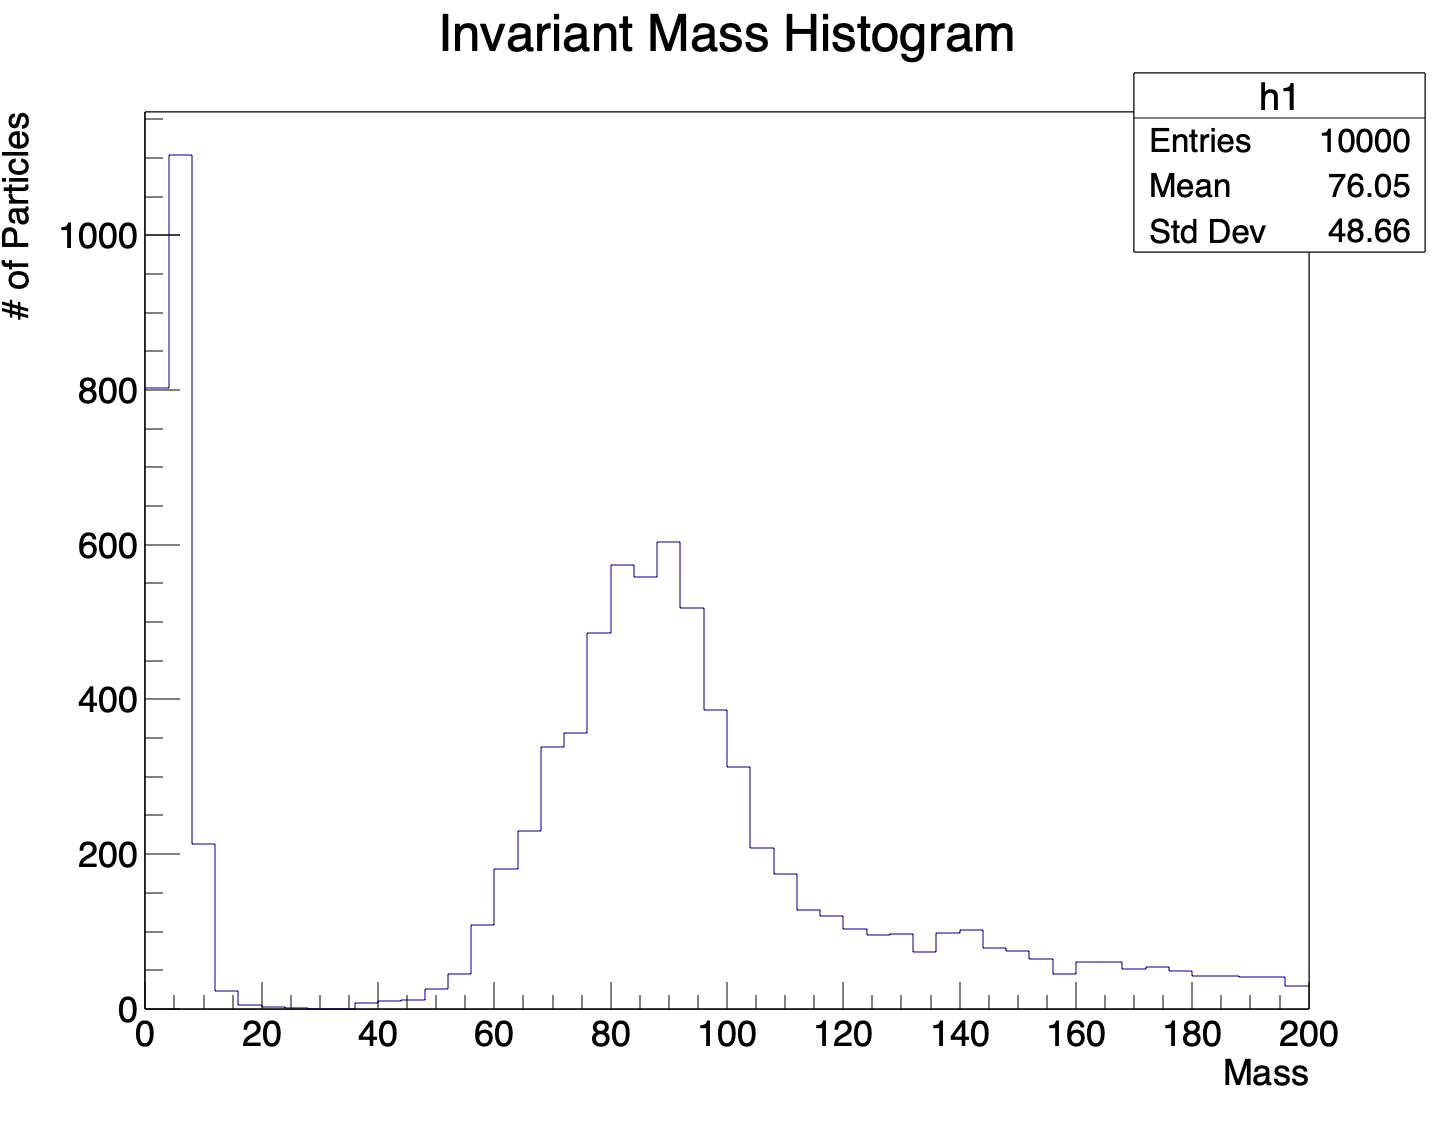
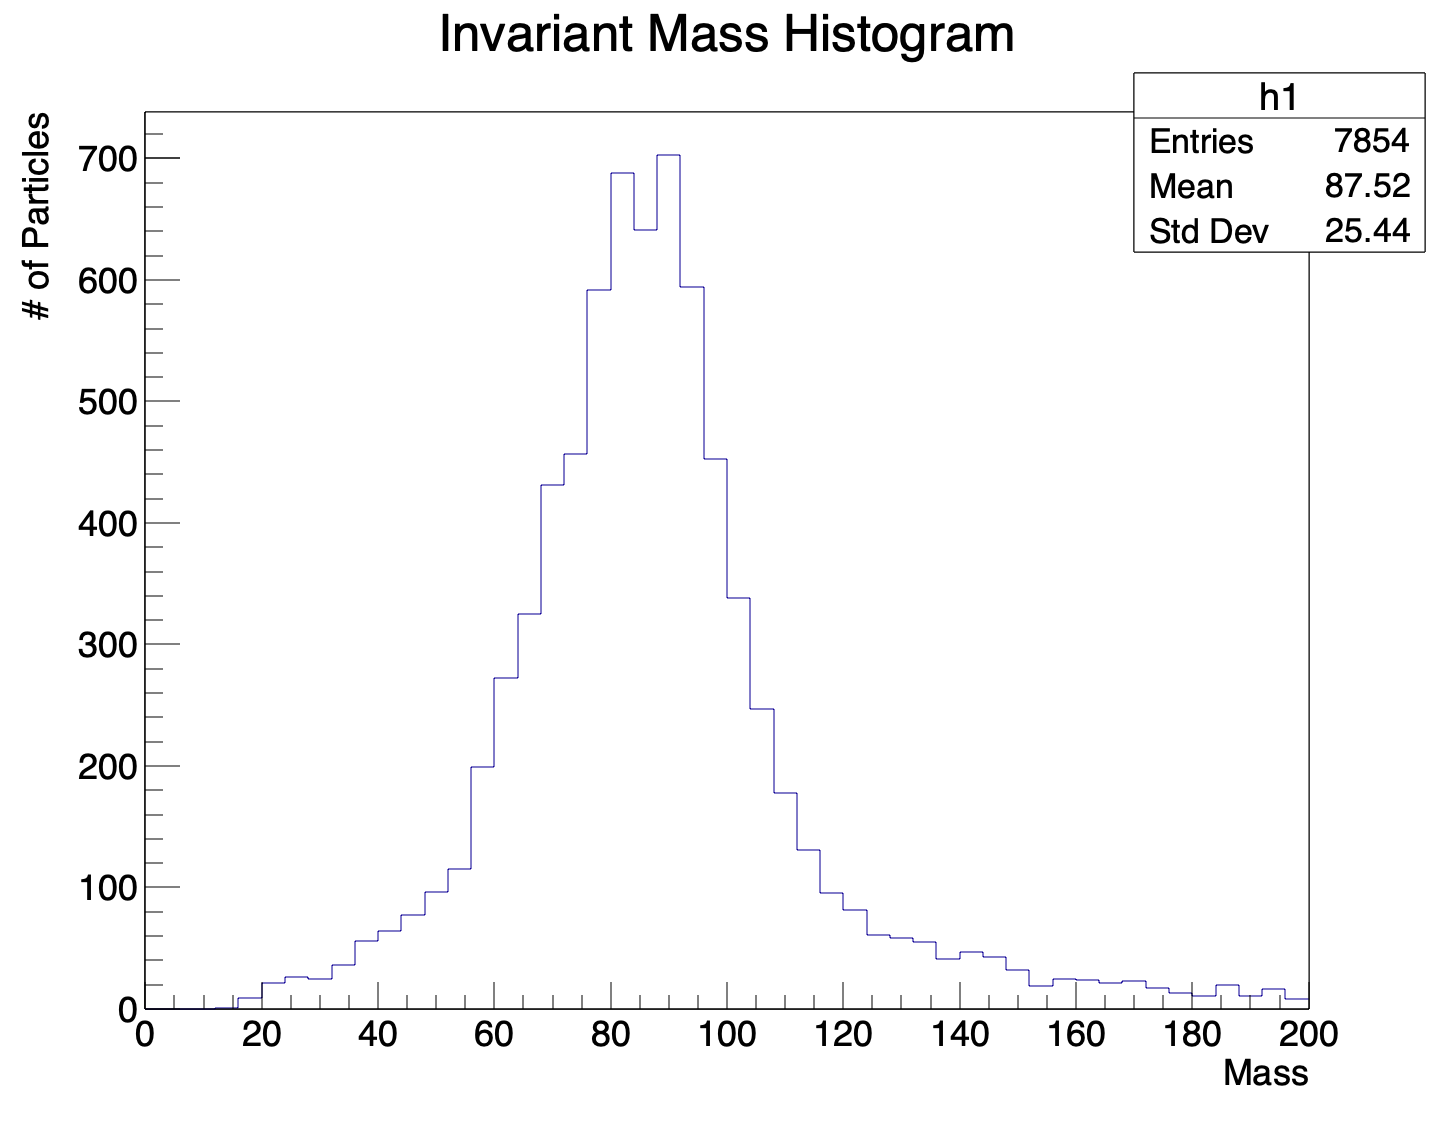
Updated the code to properly calculate the invariant mass using the closest two masses of jets if there is more than two jets, and discards data if there is only one or zero jets.

diff --git a/part6/mainRootTFilepptoztojj.py b/part6/mainRootTFilepptoztojj.py
@@ -1,5 +1,5 @@
 import ROOT
-# import sys
+import sys
 
 ROOT.gInterpreter.AddIncludePath("~/physics/delphes-master/external/")
 ROOT.gSystem.Load("~/physics/delphes-master/libDelphes.so")
@@ -7,19 +7,32 @@ ROOT.gSystem.Load("~/physics/delphes-master/libDelphes.so")
 with ROOT.TFile("./part6/Tag 1 Delphes Events.root", "read") as f, ROOT.TFile("part6/output.root", "recreate") as outfile:
     tree = f.Get("Delphes")
     m1 = ROOT.TLorentzVector()
+    m2 = ROOT.TLorentzVector()
     # highestMass = 0
     # lowestMass = sys.maxsize
-    hout = ROOT.TH1F("h1", "Invariant Mass Histogram;Mass;# of Particles", 50, 50, 200)
+    hout = ROOT.TH1F("h1", "Invariant Mass Histogram;Mass;# of Particles", 50, 0, 200)
 
     for event in tree:
         numParticles = event.GetLeaf("Jet", "Jet.PT").GetLen()
-        mTot = ROOT.TLorentzVector()
-        
-        for i in range(numParticles):
-            m1.SetPtEtaPhiM(event.GetLeaf("Jet", "Jet.PT").GetValue(i), event.GetLeaf("Jet", "Jet.Eta").GetValue(i), event.GetLeaf("Jet", "Jet.Phi").GetValue(i), event.GetLeaf("Jet", "Jet.Mass").GetValue(i))
-            mTot += m1
+        deltaM = sys.maxsize
 
-        invariantMass = mTot.M()
+        if (numParticles < 2):
+            continue
+
+        for i in range(numParticles - 1):
+            for j in range (numParticles - 1):
+                if (j >= i):
+                    if (deltaM > abs(event.GetLeaf("Jet", "Jet.Mass").GetValue(i) - event.GetLeaf("Jet", "Jet.Mass").GetValue(j + 1))):
+                        deltaM = abs(event.GetLeaf("Jet", "Jet.Mass").GetValue(i) - event.GetLeaf("Jet", "Jet.Mass").GetValue(j + 1))
+                        m1.SetPtEtaPhiM(event.GetLeaf("Jet", "Jet.PT").GetValue(i), event.GetLeaf("Jet", "Jet.Eta").GetValue(i), event.GetLeaf("Jet", "Jet.Phi").GetValue(i), event.GetLeaf("Jet", "Jet.Mass").GetValue(i))
+                        m2.SetPtEtaPhiM(event.GetLeaf("Jet", "Jet.PT").GetValue(j + 1), event.GetLeaf("Jet", "Jet.Eta").GetValue(j + 1), event.GetLeaf("Jet", "Jet.Phi").GetValue(j + 1), event.GetLeaf("Jet", "Jet.Mass").GetValue(j + 1))
+                else:
+                    if (deltaM > abs(event.GetLeaf("Jet", "Jet.Mass").GetValue(i) - event.GetLeaf("Jet", "Jet.Mass").GetValue(j))):
+                        deltaM = event.GetLeaf("Jet", "Jet.Mass").GetValue(i) - event.GetLeaf("Jet", "Jet.Mass").GetValue(j)
+                        m1.SetPtEtaPhiM(event.GetLeaf("Jet", "Jet.PT").GetValue(i), event.GetLeaf("Jet", "Jet.Eta").GetValue(i), event.GetLeaf("Jet", "Jet.Phi").GetValue(i), event.GetLeaf("Jet", "Jet.Mass").GetValue(i))
+                        m2.SetPtEtaPhiM(event.GetLeaf("Jet", "Jet.PT").GetValue(j), event.GetLeaf("Jet", "Jet.Eta").GetValue(j), event.GetLeaf("Jet", "Jet.Phi").GetValue(j), event.GetLeaf("Jet", "Jet.Mass").GetValue(j))
+
+        invariantMass = (m1+m2).M()
 
         # #For auto scaling the x-axis.
         # if invariantMass > highestMass:
